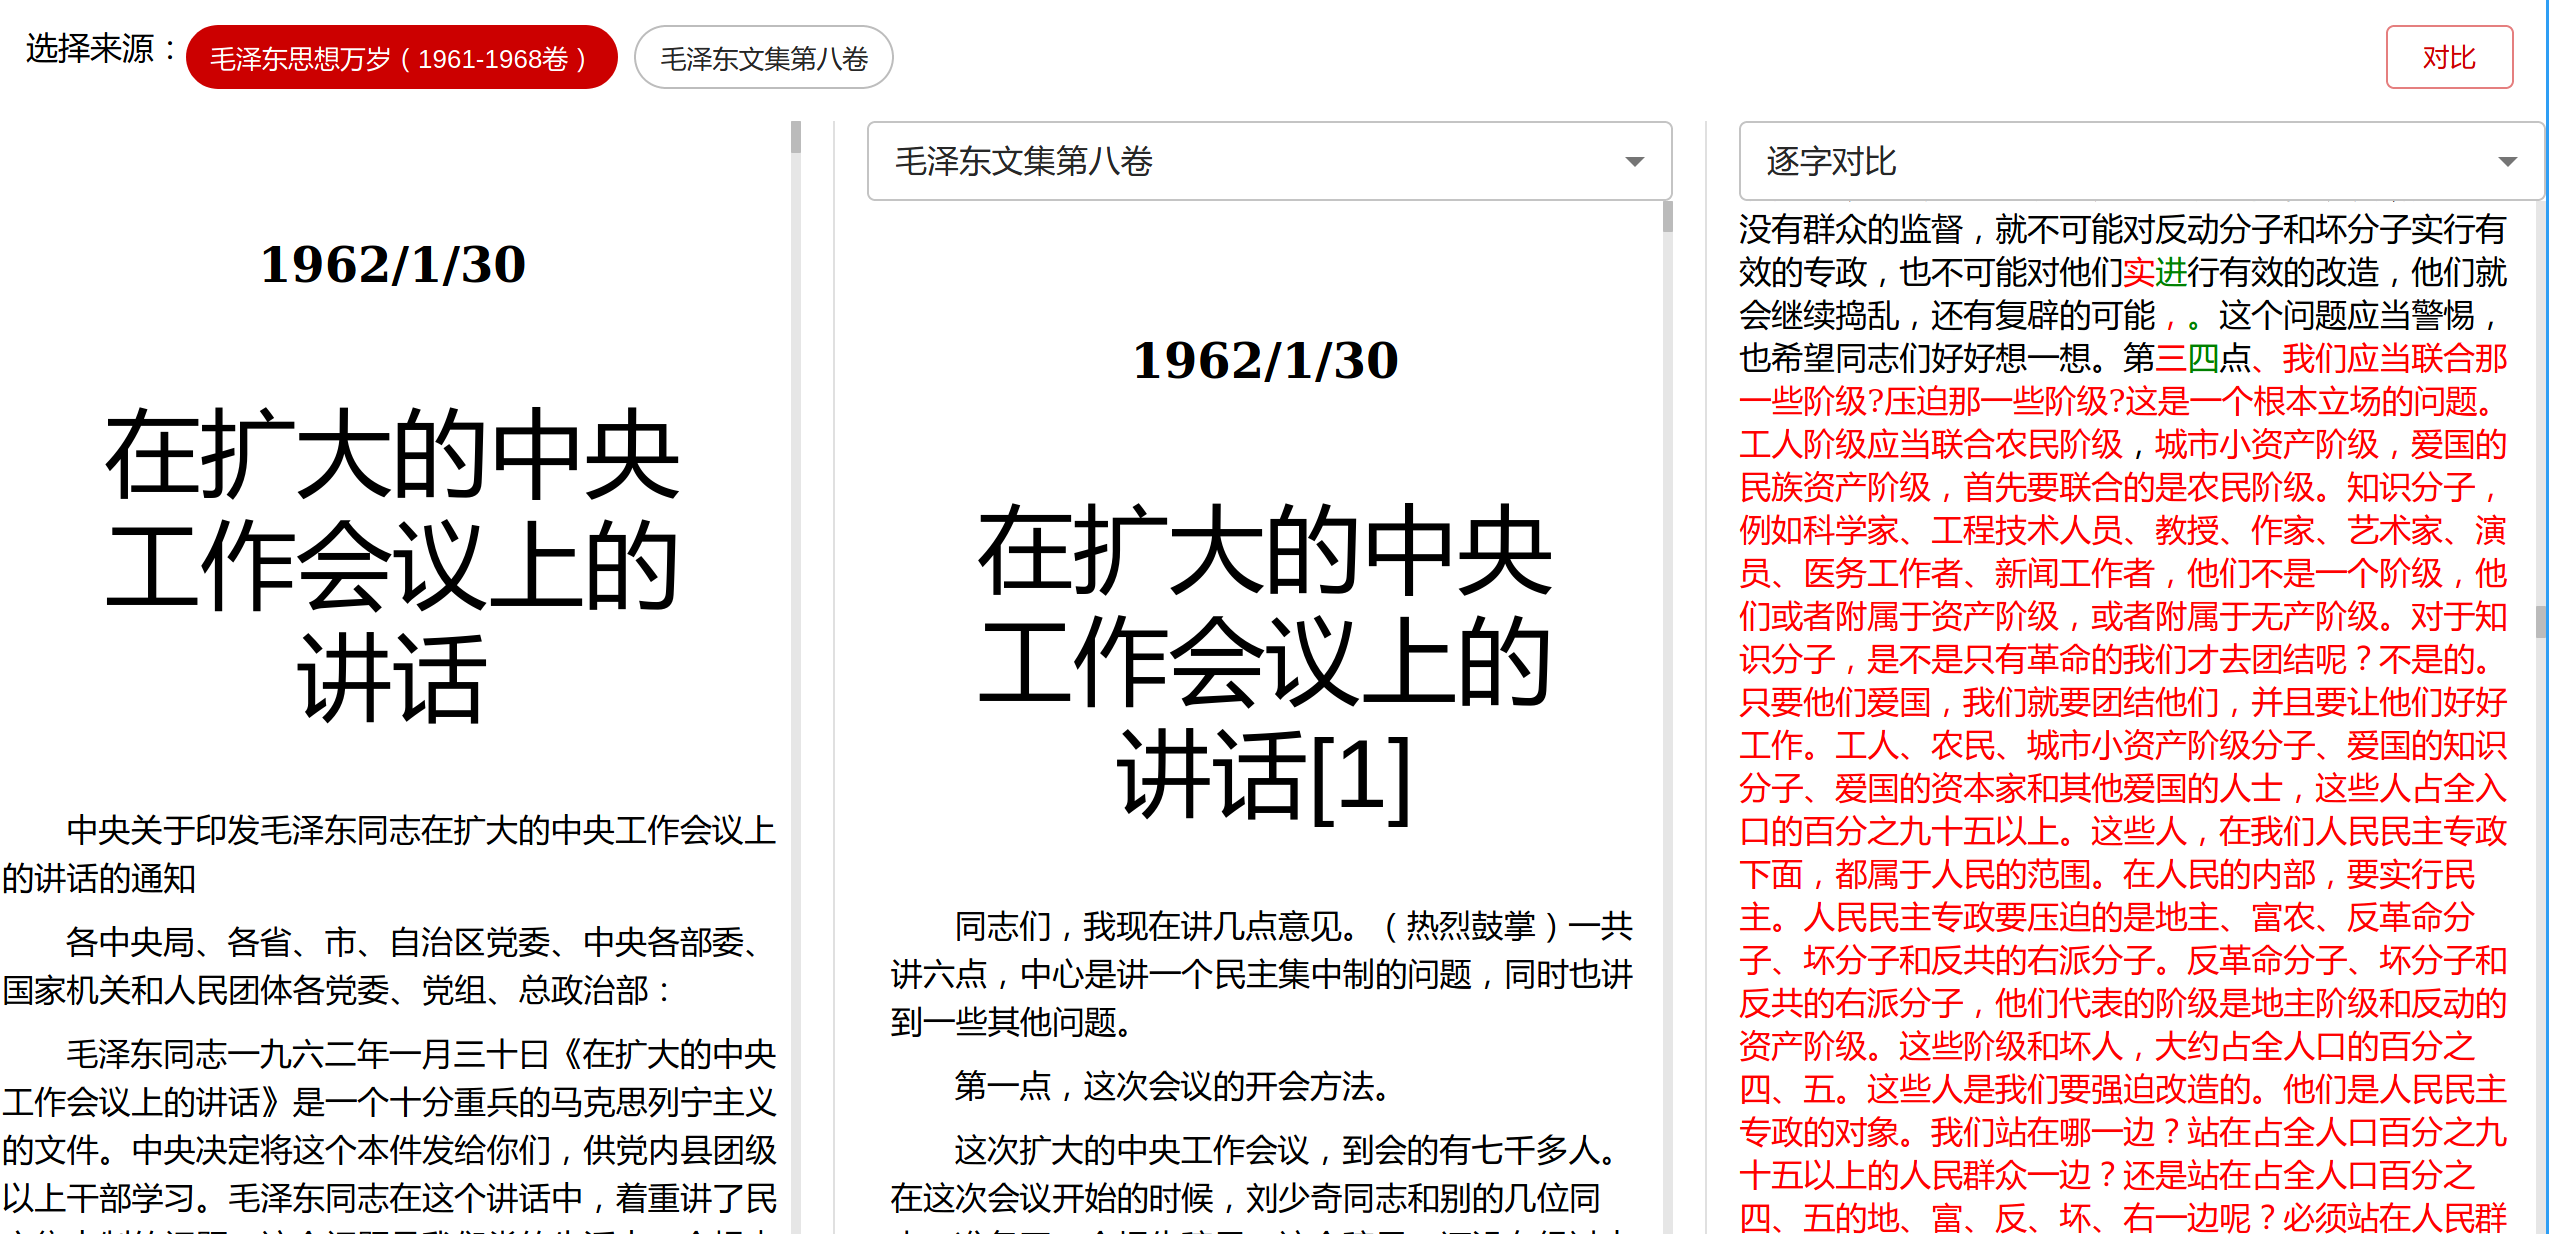
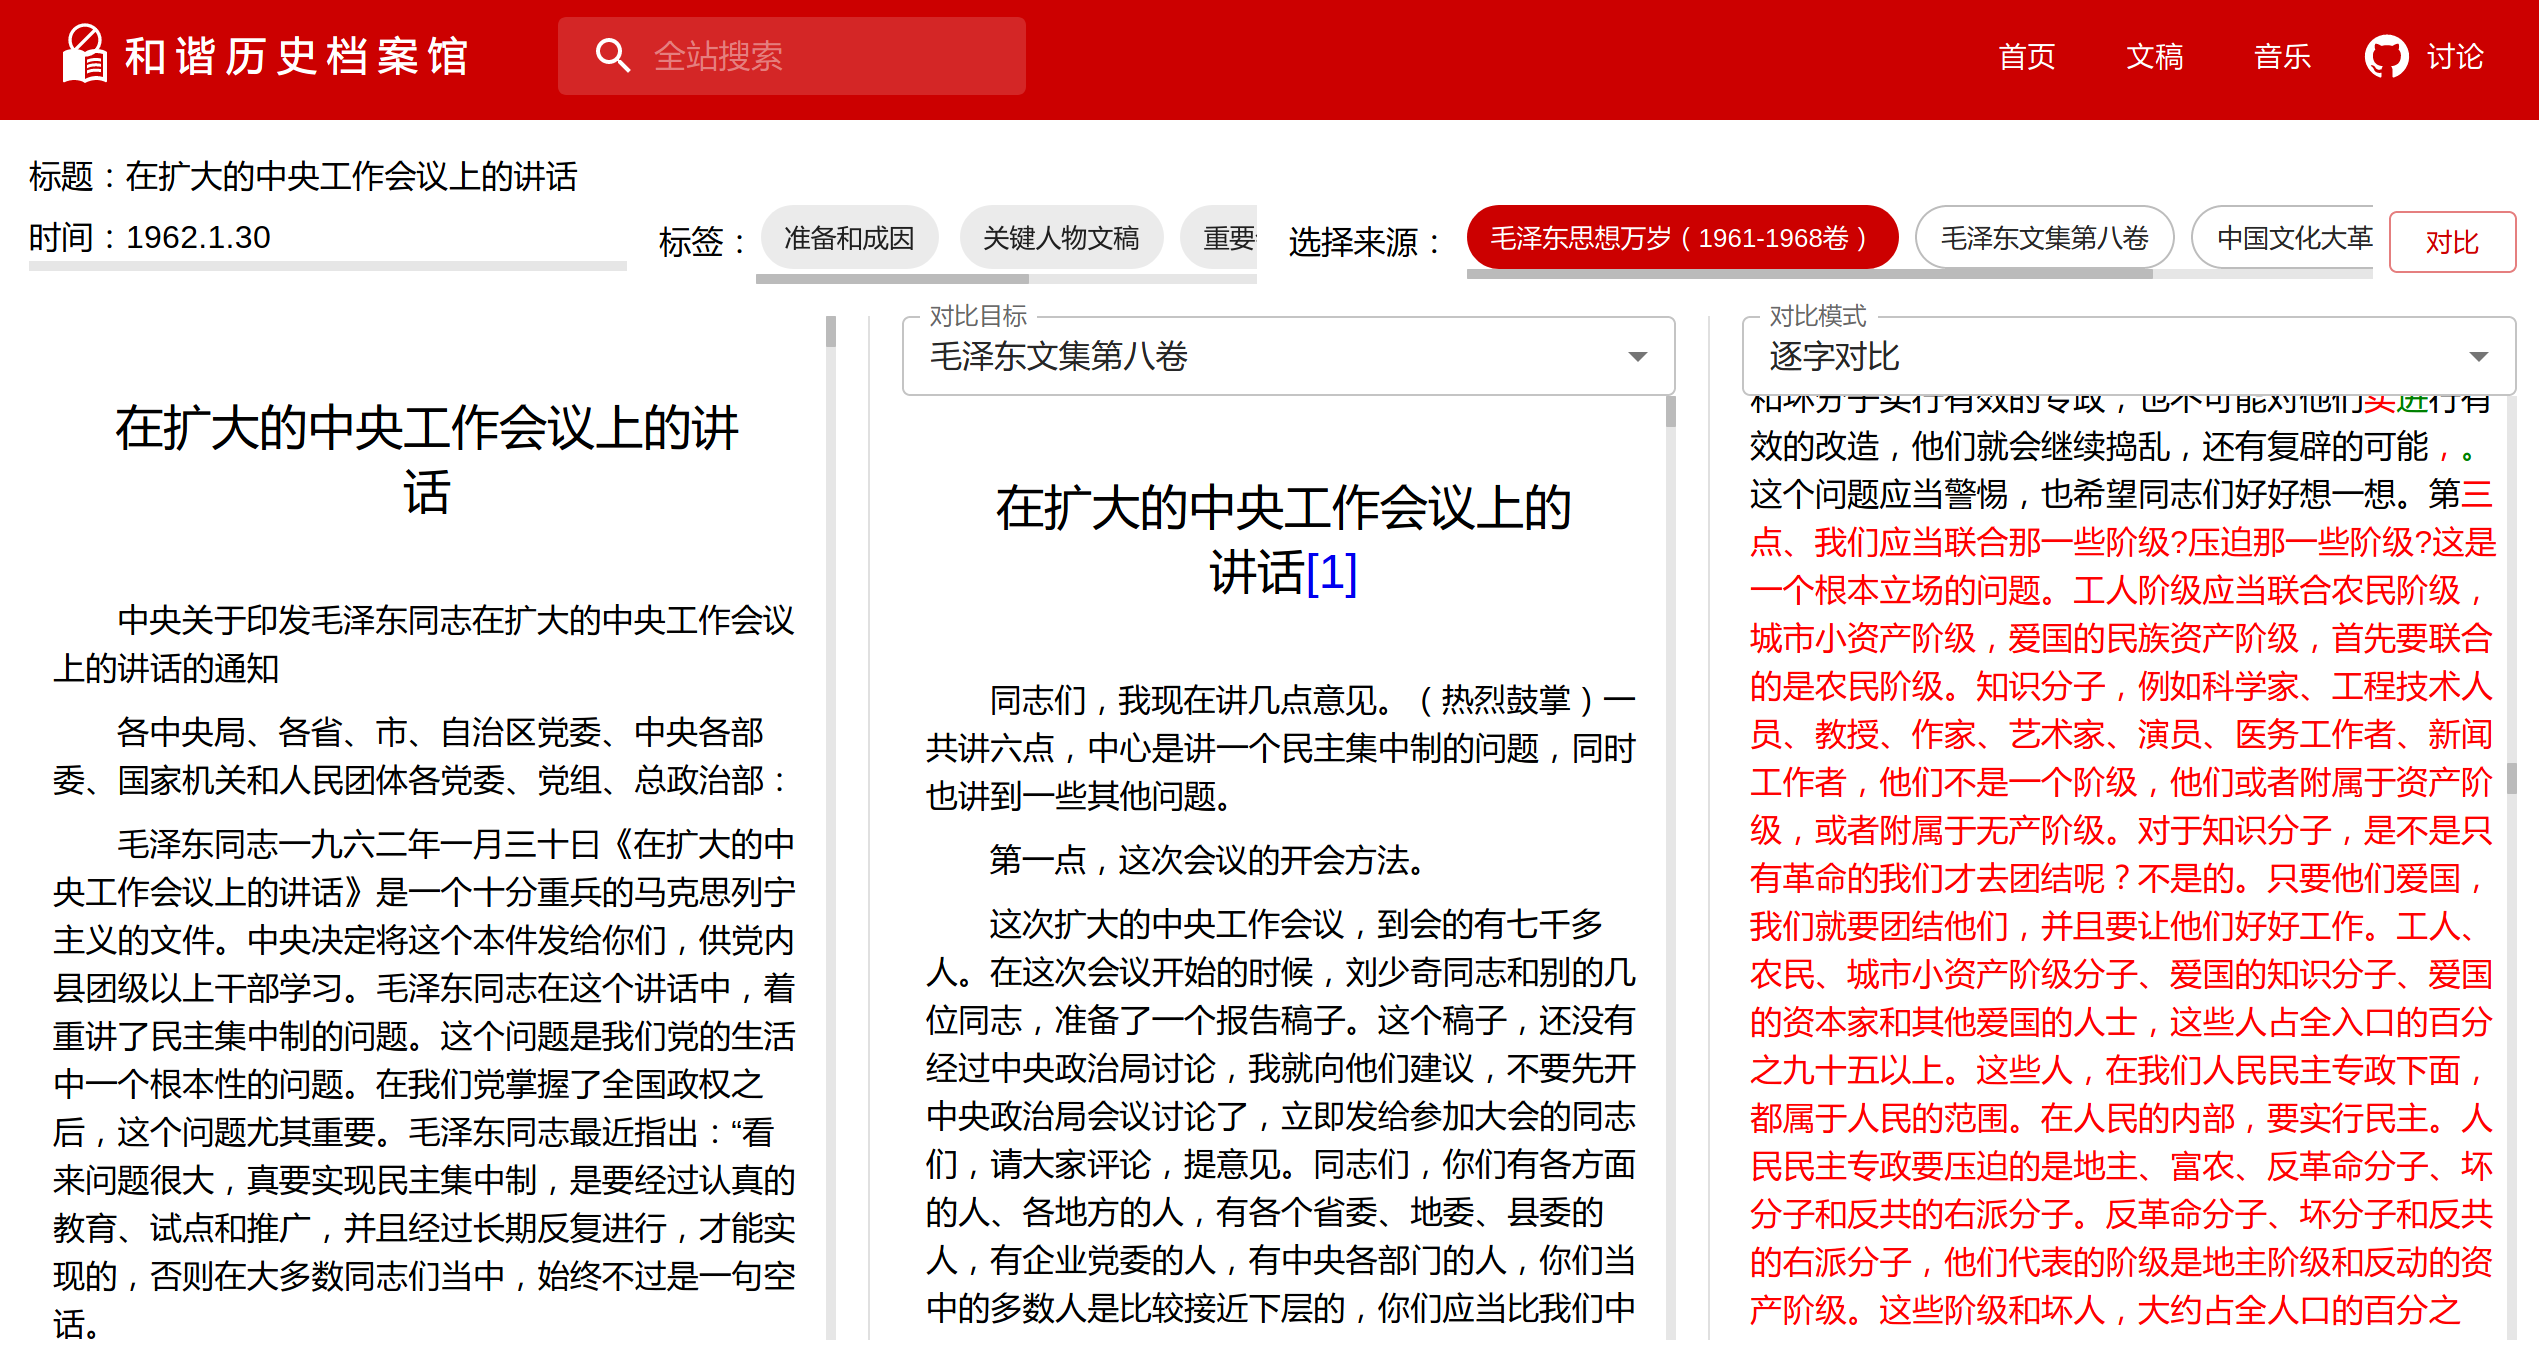
ui

diff --git a/pages/articles/[id].tsx b/pages/articles/[id].tsx
@@ -4,7 +4,10 @@ import Head from 'next/head';
 
 import Select, { SelectChangeEvent } from '@mui/material/Select';
 import Menu from '@mui/material/Menu';
+import InputLabel from '@mui/material/InputLabel';
+import FormControl from '@mui/material/FormControl';
 import Grid from '@mui/material/Grid';
+import OutlinedInput from '@mui/material/OutlinedInput';
 import MenuItem from '@mui/material/MenuItem';
 import Chip from '@mui/material/Chip';
 import Button from '@mui/material/Button';
@@ -355,20 +358,23 @@ export default function ArticleViewer({
   } else if (compareType === CompareType.version) {
     compare_elements.push(
       <Stack key="version_b" sx={{ flex: 1 }}>
-        <Select
-          size="small"
-          value={comparePublication}
-          label="来源"
-          onChange={(e) => {
-            setComparePublication(e.target.value);
-          }}
-        >
-          {article.publications.map((i) => (
-            <MenuItem key={i.id} value={i.id}>
-              {i.name}
-            </MenuItem>
-          ))}
-        </Select>
+        <FormControl>
+          <InputLabel>对比目标</InputLabel>
+          <Select
+            size="small"
+            value={comparePublication}
+            input={<OutlinedInput label="对比目标" />}
+            onChange={(e) => {
+              setComparePublication(e.target.value);
+            }}
+          >
+            {article.publications.map((i) => (
+              <MenuItem key={i.id} value={i.id}>
+                {i.name}
+              </MenuItem>
+            ))}
+          </Select>
+        </FormControl>
         <Stack sx={{ overflowY: 'scroll', p: 1 }}>
           <ArticleComponent
             article={article}
@@ -378,17 +384,22 @@ export default function ArticleViewer({
         </Stack>
       </Stack>,
       <Stack key="result" sx={{ flex: 1 }}>
-        <Select
-          size="small"
-          value={compareMode}
-          label="对比模式"
-          onChange={(e) => {
-            setCompareMode(e.target.value as CompareMode);
-          }}
-        >
-          <MenuItem value={CompareMode.line}>{CompareMode.line}</MenuItem>
-          <MenuItem value={CompareMode.literal}>{CompareMode.literal}</MenuItem>
-        </Select>
+        <FormControl>
+          <InputLabel>对比模式</InputLabel>
+          <Select
+            size="small"
+            value={compareMode}
+            input={<OutlinedInput label="对比模式" />}
+            onChange={(e) => {
+              setCompareMode(e.target.value as CompareMode);
+            }}
+          >
+            <MenuItem value={CompareMode.line}>{CompareMode.line}</MenuItem>
+            <MenuItem value={CompareMode.literal}>
+              {CompareMode.literal}
+            </MenuItem>
+          </Select>
+        </FormControl>
         <Stack sx={{ overflowY: 'scroll' }}>
           <DiffViewer diff={article_diff} />
         </Stack>

diff --git a/pages/_app.tsx b/pages/_app.tsx
@@ -14,12 +14,6 @@ const theme = createTheme({
     primary: {
       main: '#cc0000',
     },
-    secondary: {
-      main: '#edf2ff',
-    },
-    warning: {
-      main: '#ff9800',
-    },
   },
   components: {},
 });
